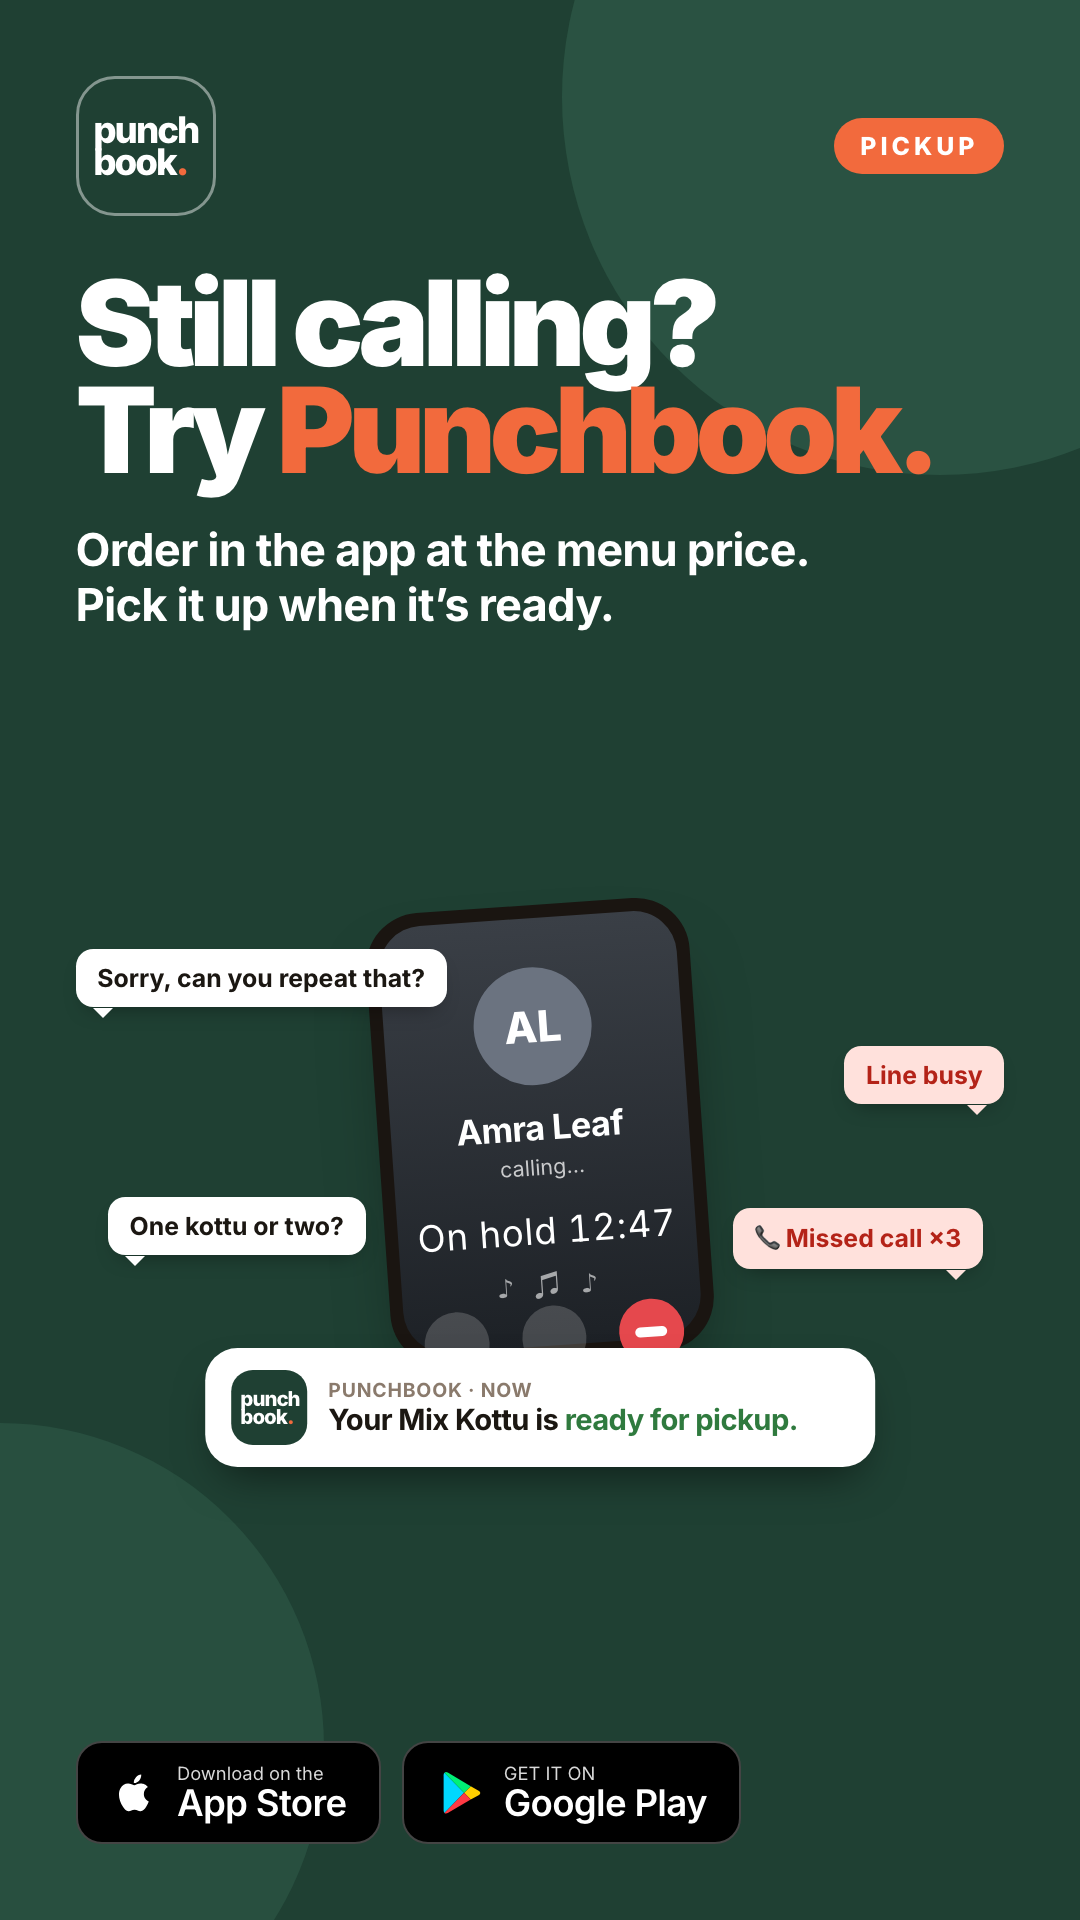
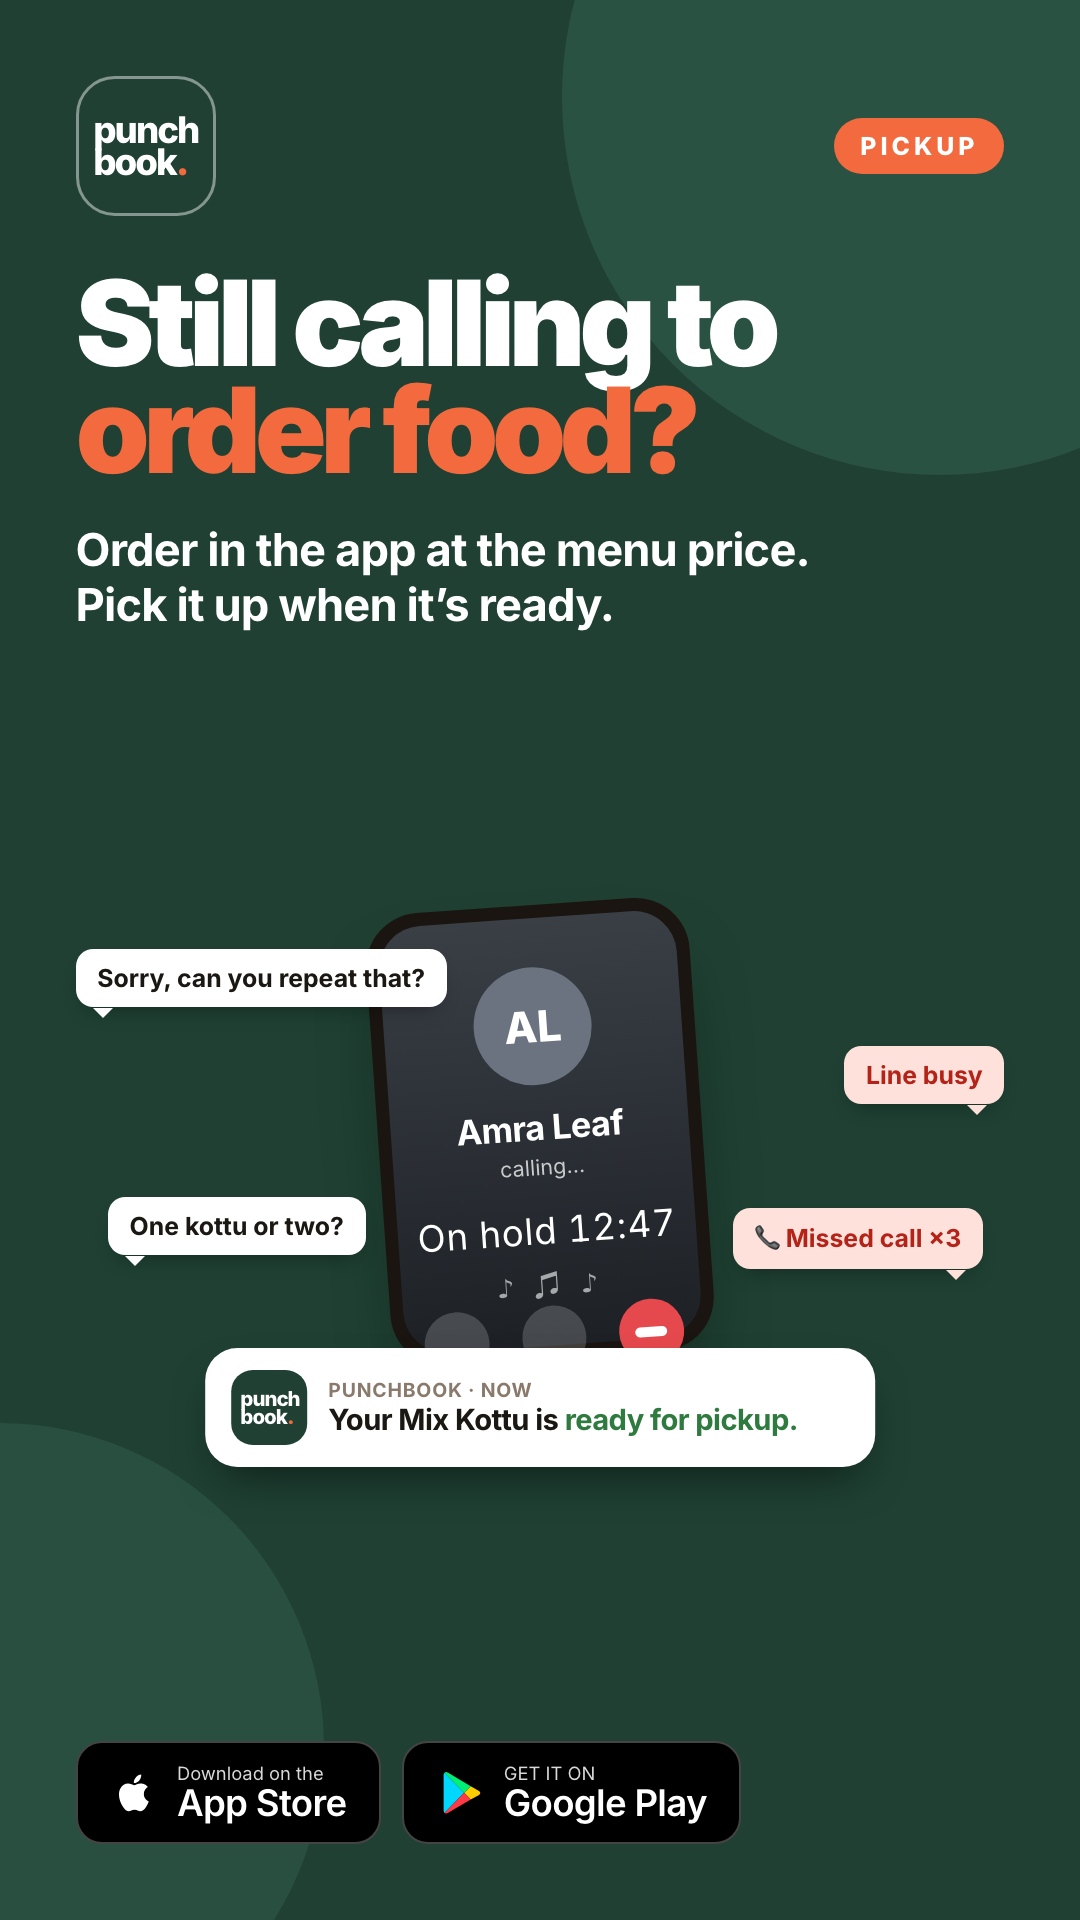
Revert ad headline change (back to Same food / Your food's ready / Still calling to order food?)

Changed region(s): [[0.0611, 0.125, 0.8556, 0.2812]]

diff --git a/marketing/ads/src/ad.html b/marketing/ads/src/ad.html
@@ -123,10 +123,10 @@ const queue=`<div class="scene"><svg class="arc" viewBox="0 0 100 20" preserveAs
 const call=`<div class="call"><div class="cphone"><div class="cscr"><div class="av">AL</div><div class="cn">Amra Leaf</div><div class="cs">calling…</div><div class="hold">On hold 12:47</div><div class="notes">♪ ♫ ♪</div><div class="cbtns"><i></i><i></i><i class="end"></i></div></div></div><span class="bub" style="left:0;top:4vmin">Sorry, can you repeat that?</span><span class="bub red r" style="right:0;top:13vmin">Line busy</span><span class="bub" style="left:3vmin;top:27vmin">One kottu or two?</span><span class="bub red r" style="right:2vmin;top:28vmin">📞 Missed call ×3</span><div class="notif"><div class="ni"><span>punch<br>book<b>.</b></span></div><div><small>PUNCHBOOK · NOW</small><strong>Your Mix Kottu is <em>ready for pickup.</em></strong></div></div></div>`;
 const C={
  '1':{h:`The Pick Up<br>Order <em>App.</em>`,body:`<p class="sub"><span class="hl">At restaurant prices.</span></p><p class="save">Save up to LKR 400<br>every order<sup>*</sup></p>`,side:phone,fine:1},
- '2':{h:`Pick up food.<br><em>Less to pay.</em>`,body:`<div class="cmp"><div class="us">Punchbook <span>Menu price</span></div><div class="them">Other apps <span>Up to LKR 400 more</span></div></div>`,side:phone,fine:1},
+ '2':{h:`Same food.<br><em>Less to pay.</em>`,body:`<div class="cmp"><div class="us">Punchbook <span>Menu price</span></div><div class="them">Other apps <span>Up to LKR 400 more</span></div></div>`,side:phone,fine:1},
  '3':{h:`Walk in.<br>Walk <em>out.</em>`,body:`<p class="sub">Order ahead. Show your code.<br>Grab your food and go.</p>`,side:ticket,fine:0},
- '4':{h:`Pick up orders online.<br>Skip the <em>queue.</em>`,body:`<p class="sub">Order food ahead in the app.<br>Walk straight to the pickup counter.</p>`,side:queue,fine:0,scene:1},
- '5':{h:`Still calling?<br>Try <em>Punchbook.</em>`,body:`<p class="sub">Order in the app at the menu price.<br>Pick it up when it’s ready.</p>`,side:call,fine:0,scene:1},
+ '4':{h:`Your food’s ready.<br>The line <em>isn’t.</em>`,body:`<p class="sub">Order food ahead in the app.<br>Walk straight to the pickup counter.</p>`,side:queue,fine:0,scene:1},
+ '5':{h:`Still calling to<br><em>order food?</em>`,body:`<p class="sub">Order in the app at the menu price.<br>Pick it up when it’s ready.</p>`,side:call,fine:0,scene:1},
 };
 const d=C[c];let html;
 if(land){html=`<div class="col">${head}<h1>${d.h}</h1>${d.body}<div class="spacer"></div>${stores}${d.fine?fine:''}</div><div class="side">${d.side}</div>`}

diff --git a/marketing/ads/ad-copy.md b/marketing/ads/ad-copy.md
@@ -11,7 +11,7 @@ Headlines (30 characters max)
 2. Order Ahead, Skip the Queue
 3. At Restaurant Prices
 4. Save Up to LKR 400 an Order
-5. Pick Up Food. Less to Pay.
+5. Same Food. Less to Pay.
 6. Pay the Menu Price
 7. Order Food for Pickup
 8. Ready in 15 Minutes
@@ -35,10 +35,10 @@ Images: `google/landscape-*.png` (1200 × 628), `google/square-*.png` (1200 × 1
 
 Short headlines (30 max)
 - The Pick Up Order App
-- Pick Up Food. Less to Pay.
+- Same Food. Less to Pay.
 - Walk In. Walk Out.
-- Skip the Queue
-- Still Calling? Try Punchbook.
+- Your Food’s Ready
+- Still Calling to Order Food?
 
 Long headline (90 max)
 - Order ahead and pick up at the counter, at restaurant prices. Save up to LKR 400 an order.
@@ -58,7 +58,7 @@ Caption 1 (with feed-1, The Pick Up Order App)
 > Other food apps add up to LKR 400 to every order. Punchbook doesn't.
 > Free on the App Store and Google Play. Link in bio.
 
-Caption 2 (with feed-2, Pick up food. Less to pay.)
+Caption 2 (with feed-2, Same food. Less to pay.)
 > Same food. Same restaurant. Up to LKR 400 less. 🍛
 > Order on Punchbook and pay the menu price, not an app price.
 > Now live at Amra Leaf, Negombo.
@@ -68,12 +68,12 @@ Caption 3 (with feed-3, Walk in. Walk out.)
 > Your food's waiting for you, not the other way round. No queue.
 > Get Punchbook free. Link in bio.
 
-Caption 4 (with feed-4, Pick up orders online. Skip the queue.)
+Caption 4 (with feed-4, Your food’s ready. The line isn’t.)
 > Your kottu’s ready. The queue can wait. 🥡
 > Order ahead on Punchbook and walk straight to the pickup counter.
 > At restaurant prices. Free on iPhone and Android.
 
-Caption 5 (with feed-5, Still calling? Try Punchbook.)
+Caption 5 (with feed-5, Still calling to order food?)
 > No hold music. No “can you repeat that?” 📞
 > Order your food in the Punchbook app at the menu price, and pick it up when it’s ready.
 > Get the app free. Link in bio.
